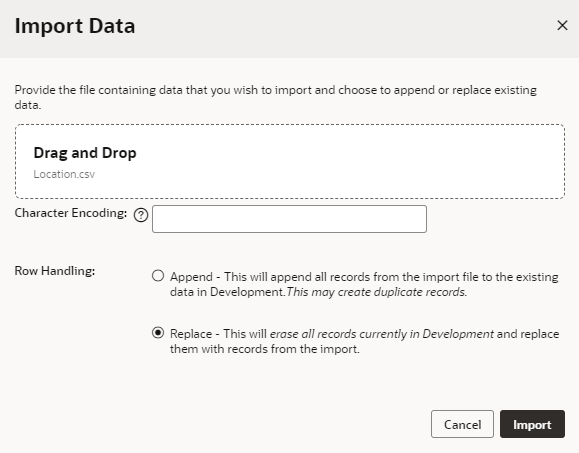
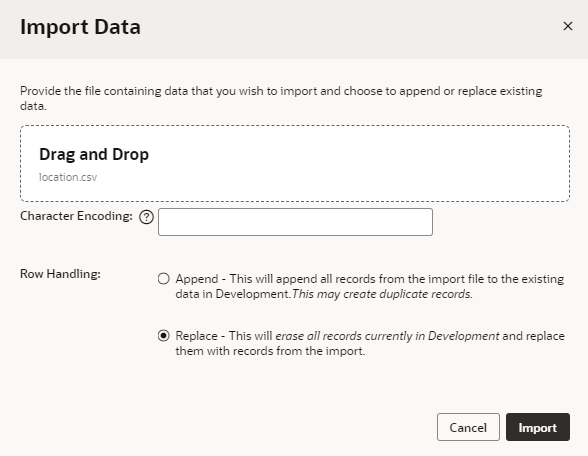
WMS 4121: quarterly QA (#174)
* rehashed workshop with 22.07 updates

* file rename

* change ./images to images in all .md files

Change requested by LiveLabs team

* 22.10 updates for provision.md

* 22.10 updates for create-project.md

* 22.10 updates and rehash for add-pages.md

* 22.10 updates and rehash for add-data.md and add-other-pages.md

* new service connections lab for 22.10

* 22.10 changes, rehash, and alt text for images

* numbering order

* title changes

* unit testing edits

* blur data

* product name change

* 22.10 QA review

* provision.md updates for gen2

* alttext

* 22.10 updates

- introduction.md
- spin-up-vb.md for Gen2 updates

* 22.10 updates contd

* 22.10 updates for create-web-app.md

* 22.10 updates for create-pages.md

* 22.10 for add-nav-and-data.md

* 22.10 updates for add-pages.md

* 22.10 for create-service-connections.md

* 22.10 updates for stage-and-publish.md

* change file name

* testing comment

* removed date

* 23.01 updates

- introduction.md
- create-project.md

* 23.01

- partial updates for create-app.md

* 23.01 updates

- create-app.md
- add-pages.md

* 23.01 updates

- save-changes.md
- add-data.md
- add-other-pages.md

* 23.01 updates

- add-other-pages.md
- create-service-connection.md
- share-app.md
- publish-app.md

* 23.01 updates

* hide OCI screenshots for rebranding

* 23.01 edits

* 23.01 updates

- added/updated images in provision.md
- updated descriptions in create-app.md
- minor update in introduction.md

* 23.01 date change
[…]

diff --git a/visual-builder/standalone/create-pub-webapp/create-service-connection/create-service-connection.md b/visual-builder/standalone/create-pub-webapp/create-service-connection/create-service-connection.md
@@ -41,9 +41,9 @@ In this step, we'll connect the HR application to an external REST endpoint that
     ![This image shows the Select Source screen of the Create Service Connection. Three options are visible: Select from Catalog, Define by Specification, and Define by Endpoint.](images/service-connection-wizard.png "")
 
     This wizard presents various options to connect to REST endpoints:
-    - When you have access to an Oracle Cloud Applications or Oracle Integration instance, you use the **Select from Catalog** option to access endpoints exposed by these Oracle services.
-    - When you have access to a Swagger or Oracle ADF file that describes a service, you use the **Define by Specification** option.
-    - When you know the URL of an external REST endpoint, you use the **Define by Endpoint** option—which is what we'll do here.
+    * When you have access to an Oracle Cloud Applications or Oracle Integration instance, you use the **Select from Catalog** option to access endpoints exposed by these Oracle services.
+    * When you have access to a Swagger or Oracle ADF file that describes a service, you use the **Define by Specification** option.
+    * When you know the URL of an external REST endpoint, you use the **Define by Endpoint** option—which is what we'll do here.
 
     Click **Define by Endpoint**.
 
@@ -82,9 +82,9 @@ Now that we have our service connection, let's change the Edit Employee page to 
 
 5. Let's now add a bunch of other components to this form layout to display country information:
 
-    - Drag and drag an **Avatar** component into the empty form Layout, then in the Properties pane, change the avatar's **Size** to **Large**.
-    - Drag an **Input Text** component and drop it onto the page under Avatar, then change its **Label Hint** in the Properties pane to `Time Zone`.
-    - Drag another **Input Text** onto the page and change its **Label Hint** to `Region`.
+    * Drag and drag an **Avatar** component into the empty form Layout, then in the Properties pane, change the avatar's **Size** to **Large**.
+    * Drag an **Input Text** component and drop it onto the page under Avatar, then change its **Label Hint** in the Properties pane to `Time Zone`.
+    * Drag another **Input Text** onto the page and change its **Label Hint** to `Region`.
 
     When you're done, your form layout may look something like this:
     ![This image shows the Country Info section added to the Edit Employee page. There's a Country Info heading, an Avatar, and two Input Text components for Time Zone and Region.](images/country-form-layout.png "")
@@ -115,9 +115,9 @@ To pass values to the country fields in the main-edit-employee page, you'll need
 
 5. Now return to the Page Designer tab for the main-edit-employee page and bind each country field to its corresponding variable. To do this:
 
-    - Select the Avatar component and click its Data tab in the Properties pane. Hover over the **Src** field, click ![Select Variable icon](images/variable-picker-icon.png) to open the Variable picker. Expand the **countryTypeVar** object and select **flag**.
-    - Select the Time Zone Input Text component, then in its Data tab, click ![Select Variable icon](images/variable-picker-icon.png) next to Value. Under **countryTypeVar**, expand **timezones** and select **item[0]**.
-    - Select the Region Input Number component, then in its Data tab, click ![Select Variable icon](images/variable-picker-icon.png) next to Value and select **region** under **countryTypeVar**.
+    * Select the Avatar component and click its Data tab in the Properties pane. Hover over the **Src** field, click ![Select Variable icon](images/variable-picker-icon.png) to open the Variable picker. Expand the **countryTypeVar** object and select **flag**.
+    * Select the Time Zone Input Text component, then in its Data tab, click ![Select Variable icon](images/variable-picker-icon.png) next to Value. Under **countryTypeVar**, expand **timezones** and select **item[0]**.
+    * Select the Region Input Number component, then in its Data tab, click ![Select Variable icon](images/variable-picker-icon.png) next to Value and select **region** under **countryTypeVar**.
 
     Each of the components are now bound to the corresponding variable, but no values show because the variables don't have any data yet.
 
@@ -171,5 +171,5 @@ In this step, we'll use the Country field as the data source for our variables a
 
 ## Acknowledgements
 
-- **Author** - Sheryl Manoharan, Visual Builder User Assistance, August 2021
-- **Last Updated By** - February 2023
+* **Author** - Sheryl Manoharan, Visual Builder User Assistance, August 2021
+* **Last Updated By** - February 2023

diff --git a/visual-builder/standalone/create-pub-webapp/create-web-app/create-web-app.md b/visual-builder/standalone/create-pub-webapp/create-web-app/create-web-app.md
@@ -140,15 +140,15 @@ Let's create your first business object and add data to it by importing a CSV fi
 
     You can see that there's now a check mark in the **Required** column for the **Location** field.
 
-8. Click [this link](https://objectstorage.us-ashburn-1.oraclecloud.com/p/LNAcA6wNFvhkvHGPcWIbKlyGkicSOVCIgWLIu6t7W2BQfwq2NSLCsXpTL9wVzjuP/n/c4u04/b/livelabsfiles/o/developer-library/Location.csv) to download the `Location.csv` file. This file contains four locations and  provides the data for the Location business object.
+8. Click [this link](https://objectstorage.us-ashburn-1.oraclecloud.com/p/Ei1_2QRw4M8tQpk59Qhao2JCvEivSAX8MGB9R6PfHZlqNkpkAcnVg4V3-GyTs1_t/n/c4u04/b/livelabsfiles/o/oci-library/location.csv) to download the `location.csv` file. This file contains four locations and  provides the data for the Location business object.
 
 9. Click the **Data** tab, then **Import from File** ![Import from File icon](images/import_icon.png).
 
     ![This image shows the Data tab of the Location business objects. No data is displayed.](images/location-data.png "")
 
-10. In the Import Data dialog box, click the drag and drop box, browse to select the `Location.csv` file, and click **Import**.
+10. In the Import Data dialog box, click the drag and drop box, browse to select the `location.csv` file, and click **Import**.
 
-    ![This image shows the Import from File dialog box after the Location.csv file has been imported. The Close button is selected.](images/location-data-import.png "")
+    ![This image shows the Import from File dialog box after the location.csv file has been imported. The Close button is selected.](images/location-data-import.png "")
 
     When the import succeeds, click **Close**. You'll see a list of locations.
 
@@ -158,7 +158,7 @@ Let's create your first business object and add data to it by importing a CSV fi
 
 Let's now create the Department and Employee business objects. But instead of creating the business objects and fields one by one and importing data for them, you'll import a ZIP file that defines two business objects, their fields, and data all at once.
 
-1. Click [this link](https://objectstorage.us-ashburn-1.oraclecloud.com/p/Ei1_2QRw4M8tQpk59Qhao2JCvEivSAX8MGB9R6PfHZlqNkpkAcnVg4V3-GyTs1_t/n/c4u04/b/livelabsfiles/o/oci-library/Department-Employee-BO.zip) and download the `Department-Employee-BO.zip` file. This ZIP file contains CSV files for the Department and Employee business objects. Feel free to review the contents.
+1. Click [this link](https://objectstorage.us-ashburn-1.oraclecloud.com/p/Ei1_2QRw4M8tQpk59Qhao2JCvEivSAX8MGB9R6PfHZlqNkpkAcnVg4V3-GyTs1_t/n/c4u04/b/livelabsfiles/o/oci-library/department-employee-bo.zip) and download the `department-employee-bo.zip` file. This ZIP file contains CSV files for the Department and Employee business objects. Feel free to review the contents.
 
 2. In the Navigator's Business Object pane, click **Menu** ![Menu icon](images/menu-icon.png) and select **Data Manager**. The Data Manager is what you use to import data from a variety of sources.
 
@@ -168,7 +168,7 @@ Let's now create the Department and Employee business objects. But instead of cr
 
    ![This image shows the Manage Application Data page, also known as the Data Manager. Import Business Objects is selected.](images/import-bos.png "")
 
-4. On the Upload File step of the Import New Business Objects wizard, click the drag and drop box, select the Department-Employee-BO.zip file, and click **Upload**.
+4. On the Upload File step of the Import New Business Objects wizard, click the drag and drop box, select the department-employee-bo.zip file, and click **Upload**.
 
    When the file is uploaded, you'll see a message that the import contains records for the Department and Employee business objects. Click **Next**.
 

diff --git a/visual-builder/standalone/create-pub-webapp/stage-and-publish/stage-and-publish.md b/visual-builder/standalone/create-pub-webapp/stage-and-publish/stage-and-publish.md
@@ -82,7 +82,7 @@ Let's now stage the application, so other users can test its behavior.
 
 To add more records to your data in the staging database, let's import data for the Department and Employee business objects from a zip file.
 
-1. Click [this link](https://objectstorage.us-ashburn-1.oraclecloud.com/p/Ei1_2QRw4M8tQpk59Qhao2JCvEivSAX8MGB9R6PfHZlqNkpkAcnVg4V3-GyTs1_t/n/c4u04/b/livelabsfiles/o/oci-library/HR_Application_Stage.zip) and save the `HR_Application_Stage.zip` file. The ZIP file contains CSV files of the Department and Employee business objects of the HR Application schema with a few more records.
+1. Click [this link](https://objectstorage.us-ashburn-1.oraclecloud.com/p/Ei1_2QRw4M8tQpk59Qhao2JCvEivSAX8MGB9R6PfHZlqNkpkAcnVg4V3-GyTs1_t/n/c4u04/b/livelabsfiles/o/oci-library/hr_application_stage.zip) and save the `hr_application_stage.zip` file. The ZIP file contains CSV files of the Department and Employee business objects of the HR Application schema with a few more records.
 
 2. In the Navigator, click the **Business Objects** ![Business Objects icon](images/bo-icon.png) tab, then click **Menu** ![Menu icon](images/menu-icon.png) and select **Data Manager**.
 
@@ -94,7 +94,7 @@ To add more records to your data in the staging database, let's import data for 
 
 4. Click **Import from File**.
 
-5. In the Import Data dialog box, click the import box, select `HR_Application_Stage.zip`, and click **Import**. When the import succeeds, click **Close**.
+5. In the Import Data dialog box, click the import box, select `hr_application_stage.zip`, and click **Import**. When the import succeeds, click **Close**.
 
     ![This image shows the Import from File dialog following a successful import.](images/import-success.png "")
 

diff --git a/visual-builder/standalone/create-pub-webapp/add-pages/add-pages.md b/visual-builder/standalone/create-pub-webapp/add-pages/add-pages.md
@@ -146,13 +146,13 @@ Now that we've added options to let users manage departments, we'll do the same 
 5. On the Edit Employee page, change the **Department** to `IT` and **Salary** to 6000. Click **Save**. A success message appears, and you are returned to the Employees page. Notice how the bar chart also changes to show the employee's updated salary.
 
 6. Click **Create Employee** and specify the data for a new employee, for example:
-    - **Name**: `Shayla`
-    - **Picture**: `https://www.oracle.com/webfolder/technetwork/jet/content/images/hcm/placeholder-female-16.png`
-    - **Hire Date**: Select today's date
-    - **Email**: `shayla@example.com`
-    - **Department**: `Marketing`
-    - **Salary**: `4000`
-    - **Country**: `NZ`
+    * **Name**: `Shayla`
+    * **Picture**: `https://www.oracle.com/webfolder/technetwork/jet/content/images/hcm/placeholder-female-16.png`
+    * **Hire Date**: Select today's date
+    * **Email**: `shayla@example.com`
+    * **Department**: `Marketing`
+    * **Salary**: `4000`
+    * **Country**: `NZ`
 
     Click **Save**. A success message appears, and the new employee is displayed in the table and bar chart.
 
@@ -180,5 +180,5 @@ Now that we have our web pages, let's change the application's home page from De
 
 ## Acknowledgements
 
-- **Author** - Sheryl Manoharan, Visual Builder User Assistance, August 2021
-- **Last Updated By** - February 2023
+* **Author** - Sheryl Manoharan, Visual Builder User Assistance, August 2021
+* **Last Updated By** - February 2023

diff --git a/visual-builder/standalone/create-pub-webapp/create-pages/create-pages.md b/visual-builder/standalone/create-pub-webapp/create-pages/create-pages.md
@@ -222,13 +222,13 @@ Add a Create page that lets your users create new employees.
     The fields now appear in two columns. If you don't see the change, click **Properties** to hide the Properties pane and expand your view.
 
 7. Click **Live** to make the form active. Enter or select the following (you can use other data if you wish):
-    - **Name**: `Walter`
-    - **Picture**: `https://www.oracle.com/webfolder/technetwork/jet/content/images/hcm/placeholder-male-05.png`
-    - **Hire Date**:  Select today's date
-    - **Email**: `walter@example.com`
-    - **Department**: `IT`
-    - **Salary**: `2500`
-    - **Country**: `CA`
+    * **Name**: `Walter`
+    * **Picture**: `https://www.oracle.com/webfolder/technetwork/jet/content/images/hcm/placeholder-male-05.png`
+    * **Hire Date**:  Select today's date
+    * **Email**: `walter@example.com`
+    * **Department**: `IT`
+    * **Salary**: `2500`
+    * **Country**: `CA`
 
     Click **Save**.
 
@@ -276,5 +276,5 @@ It makes sense at this point to change the name of the main-start page to main-d
 
 ## Acknowledgements
 
-- **Author** - Sheryl Manoharan, Visual Builder User Assistance, August 2021
-- **Last Updated By** - February 2023
+* **Author** - Sheryl Manoharan, Visual Builder User Assistance, August 2021
+* **Last Updated By** - February 2023
